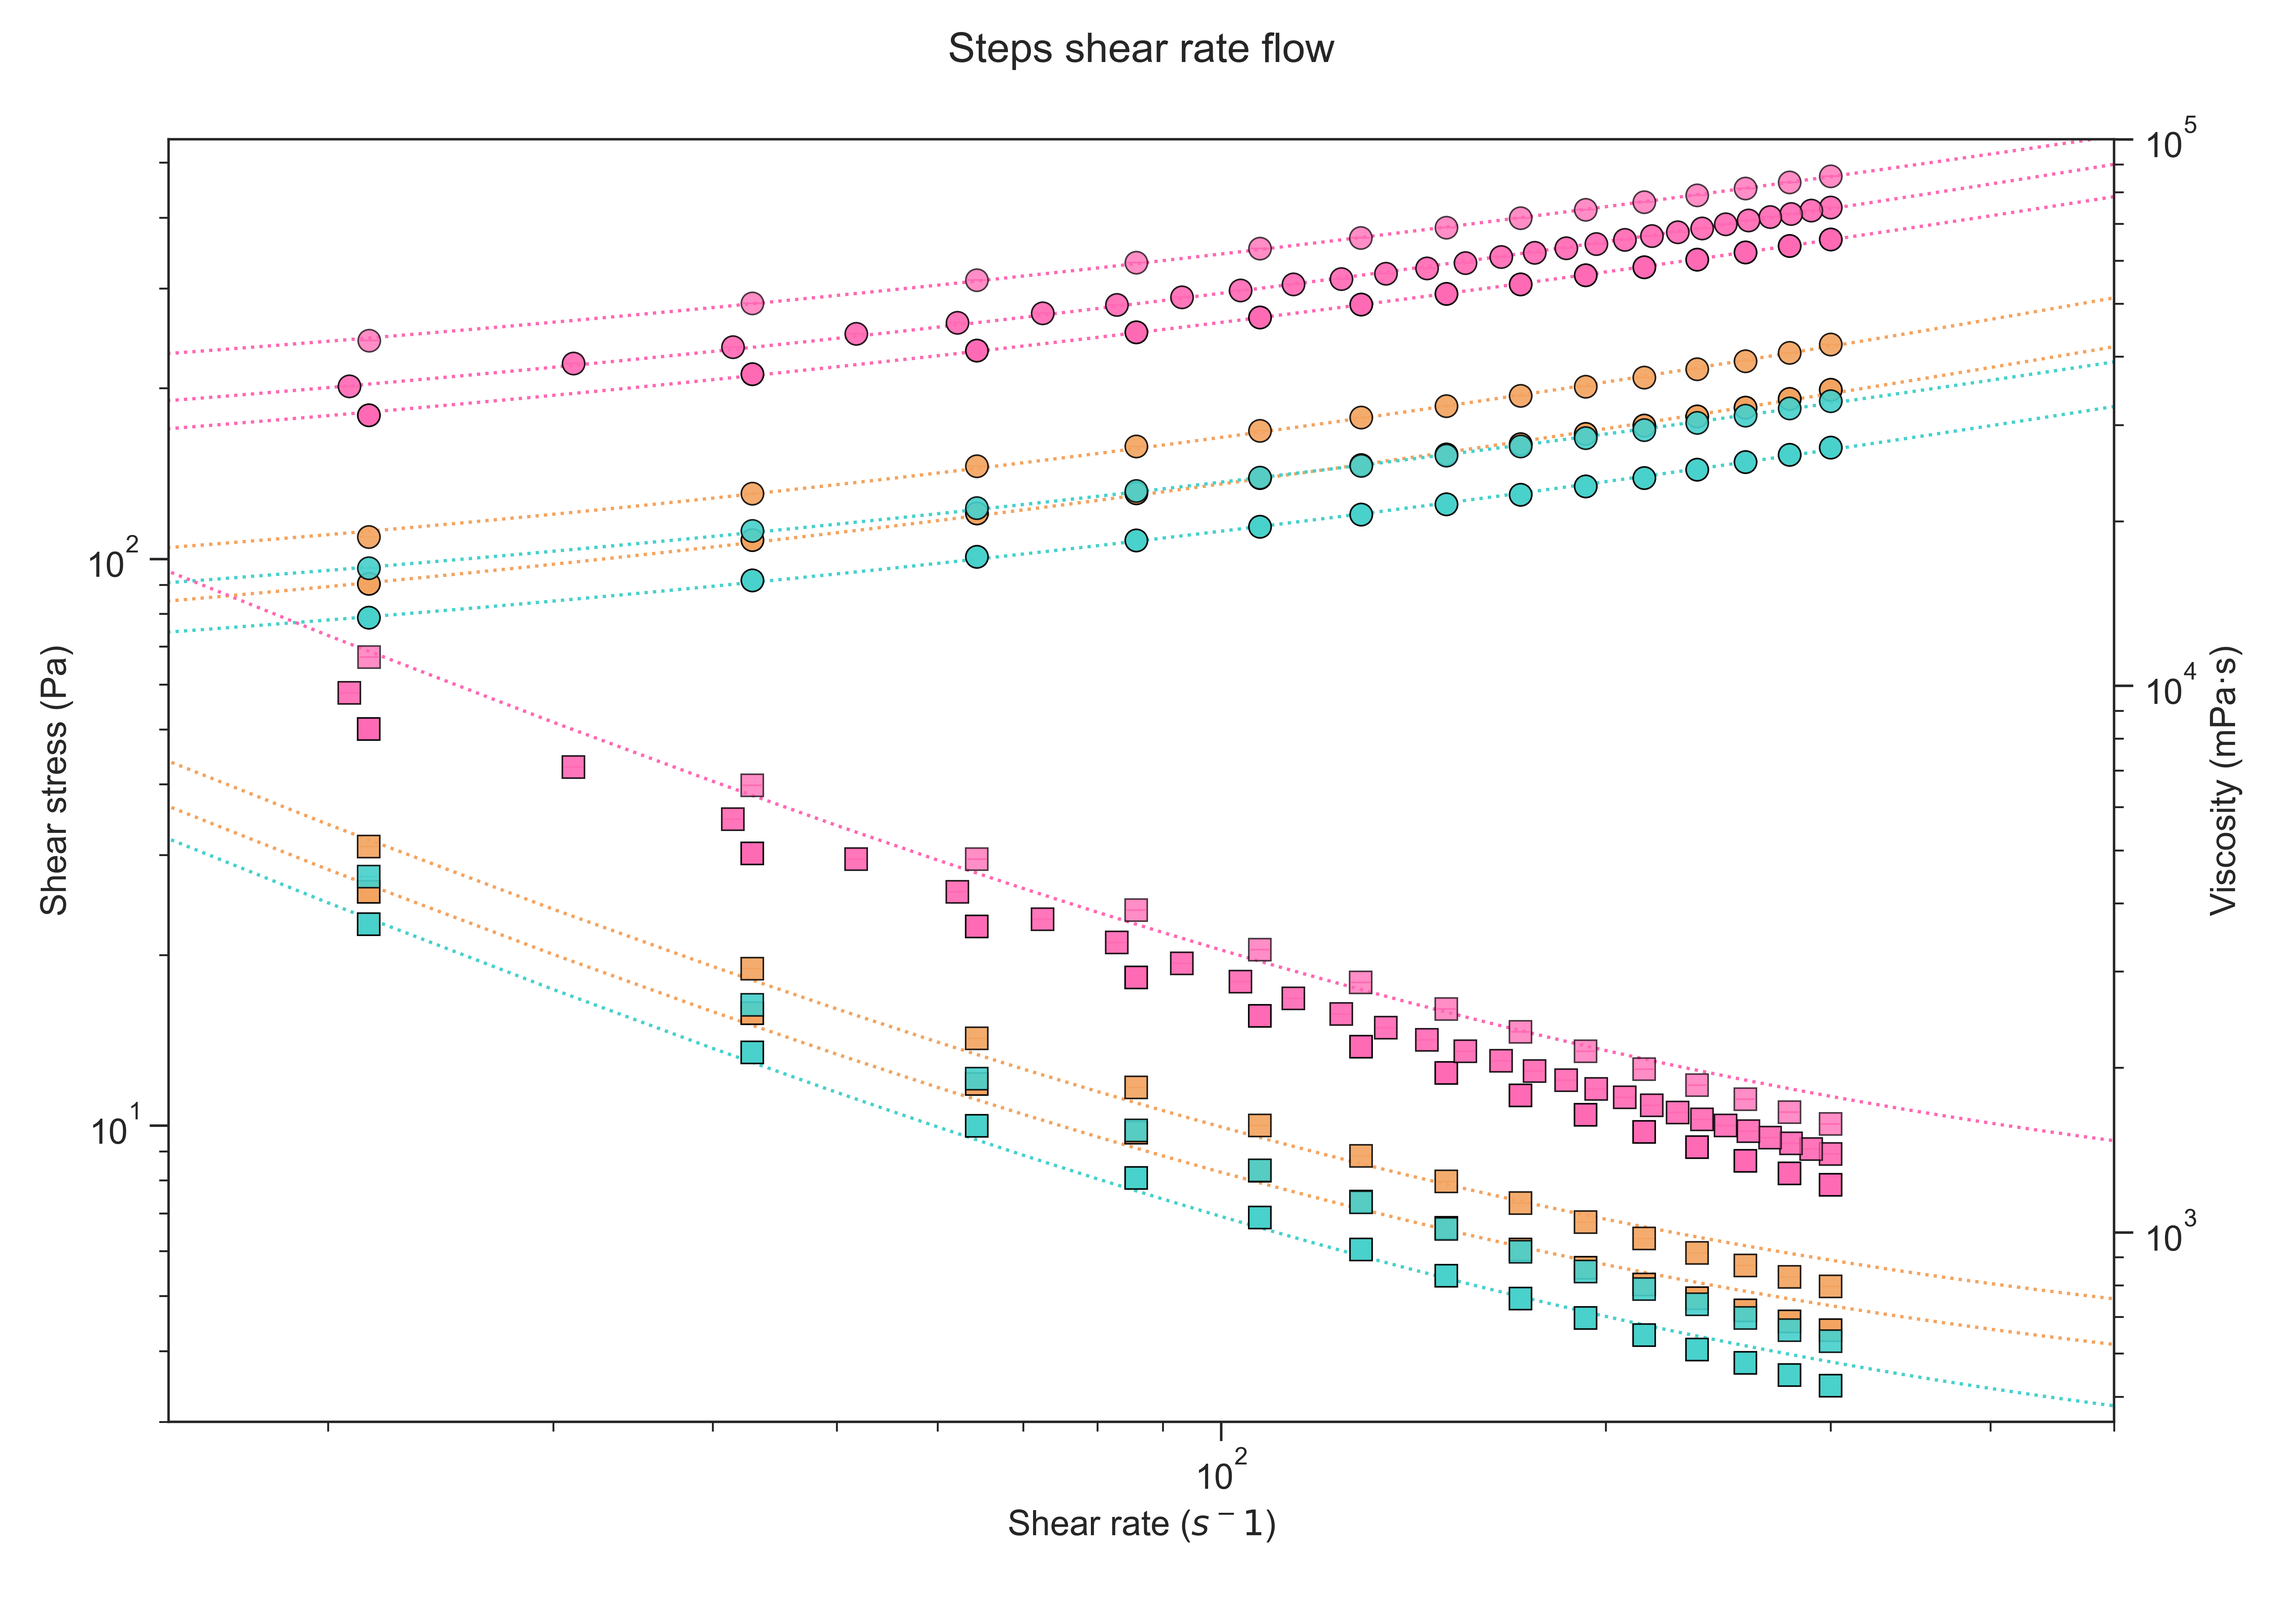
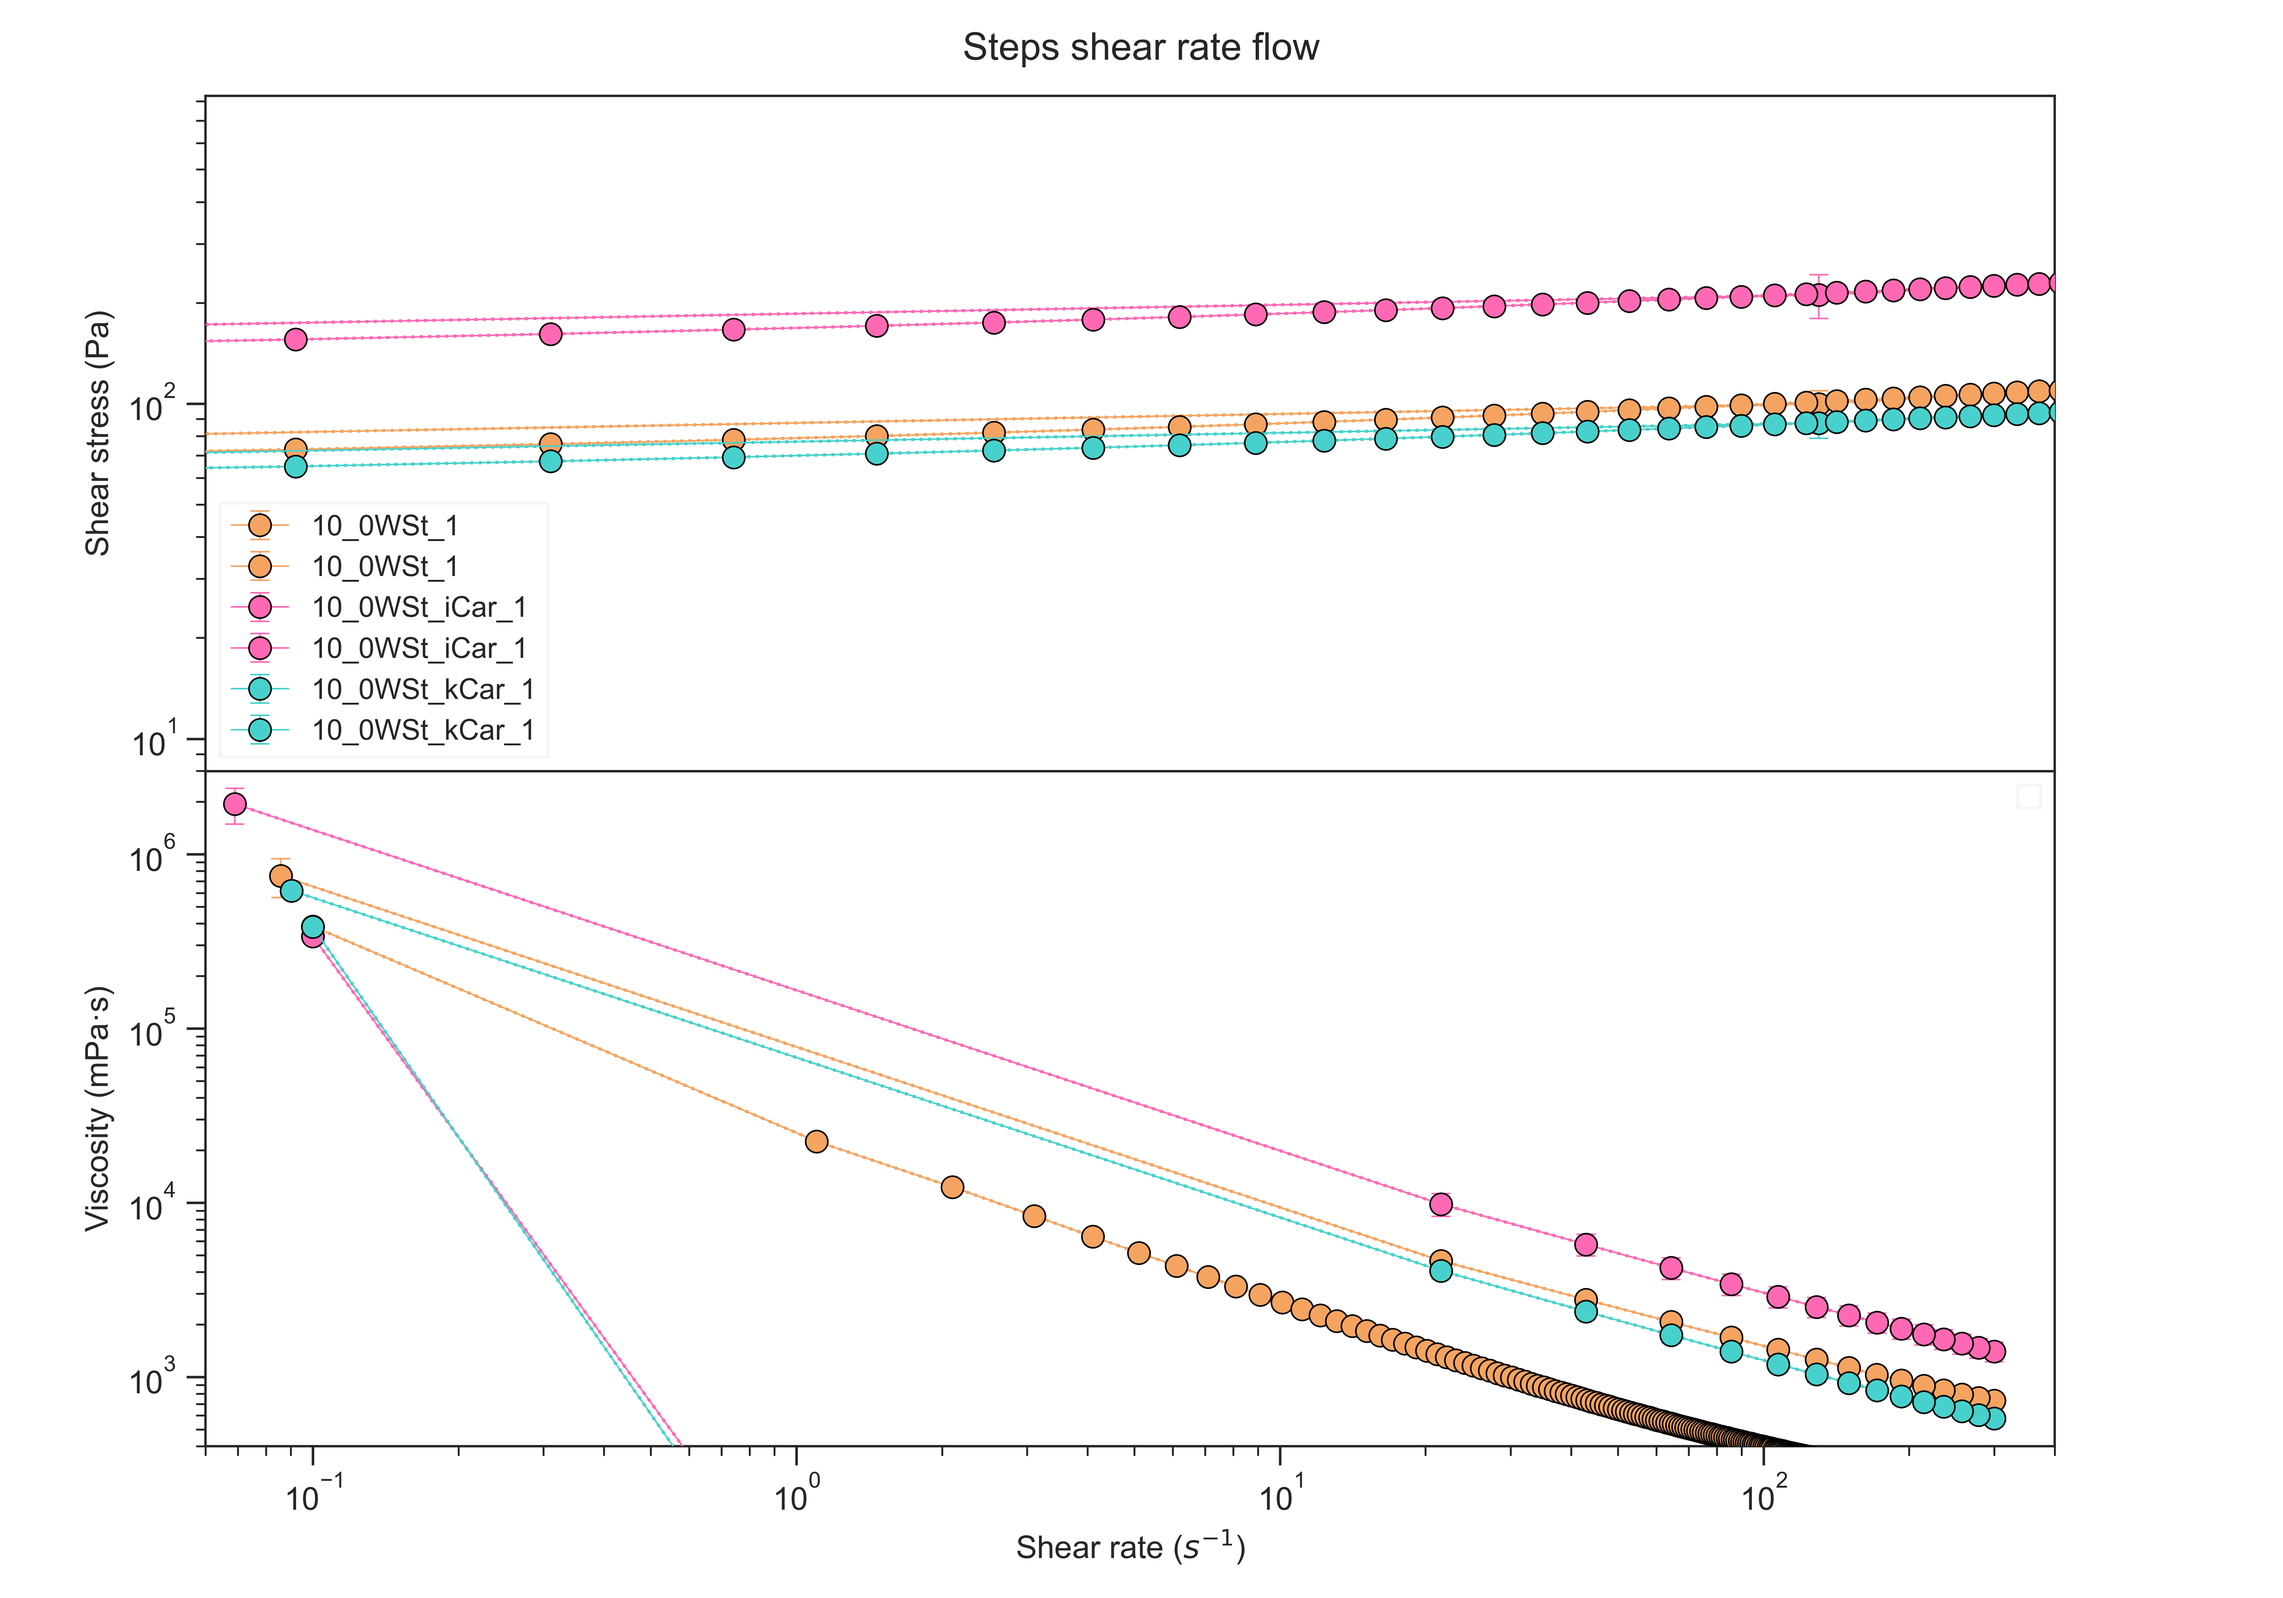
fixed fittings and means

diff --git a/custom plots/ShearFlowTransient.py b/custom plots/ShearFlowTransient.py
@@ -182,7 +182,7 @@ def plotFlow(listRows, nSamples, sampleName,
         legend.get_frame().set_facecolor('w')
         legend.get_frame().set_edgecolor('whitesmoke')
 
-    def configPlot(idSample, xPlot, yPlot, rawData=False, yErr=0):
+    def configPlot(idSample, xPlot, yPlot, yErr=0):
         ax.set_title(axTitle, size=9, color='crimson')
         ax.spines[['top', 'bottom', 'left', 'right']].set_linewidth(0.75)
 
@@ -194,103 +194,92 @@ def plotFlow(listRows, nSamples, sampleName,
         ax.set_yscale('log' if logScale else 'linear')
         ax.set_ylim(yLim)
 
-        if rawData:
-            ax.errorbar(
-                xPlot, yPlot, yerr=yErr, color=curveColor, alpha=(0.9 - curve * 0.2) if individualData else 1.0,
-                fmt=markerStyle, markersize=7, mec='k', mew=0.5,
-                capsize=3, lw=.5, linestyle='-',  # ecolor='k'
-                label=f'{sampleName}_{idSample + 1}', zorder=3)
-        else:
+        if fit != '':
             ax.plot(
                 xPlot, yPlot, color=curveColor, linestyle=':', linewidth=1,
                 zorder=2)
+        else:
+            ax.errorbar(
+                xPlot, yPlot, yerr=yErr, color=curveColor, alpha=(0.9 - curve*0.2) if individualData else 1.0,
+                fmt=markerStyle, markersize=7, mec='k', mew=0.5,
+                capsize=3, lw=.5, linestyle='-',  # ecolor='k'
+                label=f'{sampleName}_{idSample + 1}', zorder=3)
 
         legendLabel()
 
     if individualData:
         for curve in range(nSamples):
-            split_index = np.where(x[curve] <= 180)[0][-1]
+            split_index = np.where(x[curve] <= 175)[0][-1]
             x_split, y_split = x[curve][:split_index], y[curve][:split_index]
             configPlot(curve, x_split, y_split)
 
-    elif not individualData:
-        x_mean = np.mean(x, axis=0)
-        y_err = np.std(y, axis=0)
-        y_mean = np.mean(y, axis=0)
-        configPlot(0, x_mean, y_mean, yErr=y_err, rawData=True)
+            if fit == 'transient':
+                params, covariance = curve_fit(funcTransient, x, y, p0=(10, 1, 0.1, 1), method='trf')  # method='dogbox', maxfev=5000)
+                errors = np.sqrt(np.diag(covariance))
+                print(params, errors)
+                tau_0, tau_e, alpha, gamma_dot = params
+                x_fit = np.linspace(0, 180, 180)
+                y_fit = funcTransient(x_fit, tau_0, tau_e, alpha, gamma_dot)
+                # listRows = exportFit(
+                #     f'{sampleName}',
+                #     params, errors,
+                #     listRows)
+                configPlot(curve, x_split, y_split)
 
-        if fit == 'HB':
-            params, covariance = curve_fit(
-                funcHB, x_mean, y_mean,
-                p0=(2, 1, 0))
-            errors = np.sqrt(np.diag(covariance))
-            K, n, sigmaZero = params
-            x_fit = np.linspace(.1, 1000, 1000)
-            y_fit = funcHB(x_fit, K, n, sigmaZero)
-            listRows = exportFit(
-                f'{sampleName}',
-                params, errors,
-                listRows)
+    else:
+        x_split, y_split = [None, None], [None, None]
+        for curve in range(nSamples):
+            split_index = np.where(x[curve] <= 175)[0][-1]
+            x_split[curve], y_split[curve] = x[curve][:split_index], y[curve][:split_index]
 
-            configPlot(0, x_fit, y_fit)
+        x_mean = np.mean(x_split, axis=0)
+        y_err = np.std(y_split, axis=0)
+        y_mean = np.mean(y_split, axis=0)
 
-        if fit == 'modHB':
-            params, covariance = curve_fit(
-                funcModHB, x_mean, y_mean,
-                p0=(100, 10, 5, 1, 1, 0.5, 0.1), maxfev=5000, method='dogbox')
-            errors = np.sqrt(np.diag(covariance))
-            eta0, tau0, tau_od, gammaDot_od, visc_K, visc_n, etaInf = params
-            x_fit = np.linspace(.1, 1000, 1000)
-            y_fit = funcModHB(x_fit, eta0, tau0, tau_od, gammaDot_od, visc_K, visc_n, etaInf)
-            listRows = exportFit(
-                f'{sampleName}',
-                params, errors,
-                listRows, modHB=True)
-
-            configPlot(0, x_fit, y_fit)
+        configPlot(0, x_mean, y_mean, yErr=y_err)
 
     return listRows
 
 
-def main(dataPath, thixo=False):
+def main(dataPath):
     fonts('C:/Users/petrus.kirsten/AppData/Local/Microsoft/Windows/Fonts/')
 
-    fileName = '10pct_0WSt_and_Car-Flow'
+    fileName = '10pct_0WSt_and_Car-Thixotropy'
     dirSave = Path(*Path(filePath[0]).parts[:Path(filePath[0]).parts.index('data') + 1])
 
     st_nSamples, ic_nSamples, kc_nSamples = 2, 2, 2
     constantShear, stepsShear = getSamplesData(dataPath, st_nSamples, ic_nSamples)
 
-    xTitle, xLimits = ('Shear rate ($s^{-1}$)', (0.06, 400))
-    yTitle, yLimits = (f'Shear stress (Pa)', (50, 500))
-    yTitleVisc, yLimitsVisc = f'Viscosity (mPa·s)', (400, 3 * 10 ** 6)
+    xTitle, xLimits = (f'Time (s)', (-10, 200))
+    yTitle, yLimits = (f'Shear stress (Pa)', (150, 550))
+    yTitleVisc, yLimitsVisc = f'Viscosity (mPa·s)', (yLimits[0]*3.33, yLimits[1]*3.33)
     st5_color, st10_color, ic_color, kc_color = 'silver', 'sandybrown', 'hotpink', 'mediumturquoise'
 
     plt.style.use('seaborn-v0_8-ticks')
-    fig, axes = plt.subplots(figsize=(10, 7), facecolor='w', ncols=1, nrows=2)
-    axesStress, axesVisc = axes[0], axes[1]
+    fig, axesStress = plt.subplots(figsize=(10, 7), facecolor='w', ncols=1, nrows=1)
+    axesVisc = axesStress.twinx()
     axesVisc.spines[['top', 'bottom', 'left', 'right']].set_linewidth(0)
     axesVisc.set_ylabel(f'{yTitleVisc}')
     axesVisc.set_ylim(yLimitsVisc)
-    fig.suptitle(f'Steps shear rate flow')
+    fig.suptitle(f'Constant shear rate flow')
 
-    # Shear rate steps data
-    fitModeStress, fitModeVisc = 'HB', ''
+    # Shear rate cte data
+    fitModeStress, fitModeVisc = '', ''
     (x_st, s_st, v_st,
      x_ic, s_ic, v_ic,
      x_kc, s_kc, v_kc) = (
         # 10% starch
-        stepsShear['st_rateSteps'],
-        stepsShear['st_stressSteps'],
-        stepsShear['st_viscositySteps'],
+        constantShear['st_time'],
+        constantShear['st_stressCte'],
+        constantShear['st_viscosityCte'],
         # 10% starch + iota
-        stepsShear['ic_rateSteps'],
-        stepsShear['ic_stressSteps'],
-        stepsShear['ic_viscositySteps'],
+        constantShear['ic_time'],
+        constantShear['ic_stressCte'],
+        constantShear['ic_viscosityCte'],
         # 10% starch + kappa
-        stepsShear['kc_rateSteps'],
-        stepsShear['kc_stressSteps'],
-        stepsShear['kc_viscositySteps'])
+        constantShear['kc_time'],
+        constantShear['kc_stressCte'],
+        constantShear['kc_viscosityCte'])
 
     tableStress = []
     # Shear stress plot
@@ -299,45 +288,22 @@ def main(dataPath, thixo=False):
         ax=axesStress, x=x_st, y=s_st,
         axTitle='', yLabel=yTitle, yLim=yLimits, xLabel=xTitle, xLim=xLimits,
         curveColor=st10_color, markerStyle='o',
-        sampleName=f'10_0WSt', logScale=True, fit=fitModeStress)
+        sampleName=f'10_0WSt', logScale=False, fit=fitModeStress)
 
     tableStress = plotFlow(
         listRows=tableStress, nSamples=ic_nSamples,
         ax=axesStress, x=x_ic, y=s_ic,
         axTitle='', yLabel=yTitle, yLim=yLimits, xLabel=xTitle, xLim=xLimits,
         curveColor=ic_color, markerStyle='o',
-        sampleName=f'10_0WSt_iCar', logScale=True, fit=fitModeStress)
+        sampleName=f'10_0WSt_iCar', logScale=False, fit=fitModeStress)
 
     tableStress = plotFlow(
         listRows=tableStress, nSamples=kc_nSamples,
         ax=axesStress, x=x_kc, y=s_kc,
         axTitle='', yLabel=yTitle, yLim=yLimits, xLabel=xTitle, xLim=xLimits,
         curveColor=kc_color, markerStyle='o',
-        sampleName=f'10_0WSt_kCar', logScale=True, fit=fitModeStress)
+        sampleName=f'10_0WSt_kCar', logScale=False, fit=fitModeStress)
 
-    # Viscosity plot
-    plotFlow(
-        listRows=[], nSamples=st_nSamples,
-        ax=axesVisc, x=x_st, y=v_st,
-        axTitle='', yLabel=yTitleVisc, yLim=yLimitsVisc, xLabel=xTitle, xLim=xLimits,
-        curveColor=st10_color, markerStyle='o',
-        sampleName=f'', logScale=True, fit=fitModeVisc)
-
-    tableStress = plotFlow(
-        listRows=tableStress, nSamples=ic_nSamples,
-        ax=axesVisc, x=x_ic, y=v_ic,
-        axTitle='', yLabel=yTitleVisc, yLim=yLimitsVisc, xLabel=xTitle, xLim=xLimits,
-        curveColor=ic_color, markerStyle='o',
-        sampleName=f'', logScale=True, fit=fitModeVisc)
-
-    tableStress = plotFlow(
-        listRows=tableStress, nSamples=kc_nSamples,
-        ax=axesVisc, x=x_kc, y=v_kc,
-        axTitle='', yLabel=yTitleVisc, yLim=yLimitsVisc, xLabel=xTitle, xLim=xLimits,
-        curveColor=kc_color, markerStyle='o',
-        sampleName=f'', logScale=True, fit=fitModeVisc)
-
-    axesStress.set_xticklabels([])
     plt.subplots_adjust(hspace=0, wspace=0.200, top=0.940, bottom=0.095, left=0.090, right=0.900)
     # plt.tight_layout()
     plt.show()
